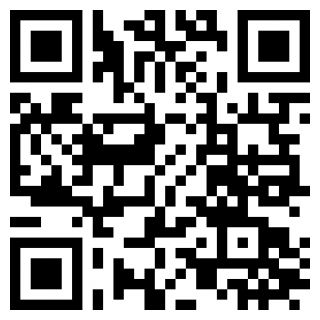
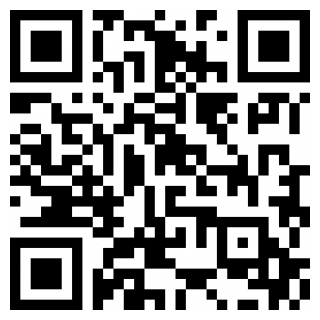
Telegram for client fixes

diff --git a/frontend/controllers/TelegramController.php b/frontend/controllers/TelegramController.php
@@ -19,7 +19,7 @@ use Yii;
  */
 class TelegramController extends \yii\rest\Controller
 {
-	protected static function findUser($chat_id) {
+	protected function findUser($chat_id) {
 		$employee = Employee::find()->where(["chat_id" => $chat_id])->one();
 		if ( $employee ) {
 			$user = $employee->user;
@@ -37,11 +37,11 @@ class TelegramController extends \yii\rest\Controller
 
 	protected static function checkPermission($telegram, $permission) {
 		if ( !Yii::$app->user->can($permission) ) {
-			$message = isset($telegram->input->message) ? $telegram->input->message : $telegram->input->callback_query;
-			$result = $telegram->sendMessage([
-				'chat_id' => $message->chat->id,
-				"text" => Yii::t("telegram", "You don`t have permissions for this action")
-			]);
+//			$message = isset($telegram->input->message) ? $telegram->input->message : $telegram->input->callback_query;
+//			$result = $telegram->sendMessage([
+//				'chat_id' => $message->chat->id,
+//				"text" => Yii::t("telegram", "You don`t have permissions for this action")
+//			]);
 			return false;
 		}
 		return true;
@@ -65,7 +65,6 @@ class TelegramController extends \yii\rest\Controller
 				"input_data" => $data,
 				"message" => 'user is not logged',
 			]);
-			return false;
 		}
 		Yii::$app->user->switchIdentity($user, 0);
 		$this->enableCsrfValidation = false;
@@ -299,12 +298,19 @@ class TelegramController extends \yii\rest\Controller
 		Command::run("/driver", [$this, "driver"]);
 
 		Command::run("/all_orders", [$this, "orders"]);
+		Command::run("/order", [$this, "view"]);
 //		Command::run("/status_store", [$this, "status_store"]);
 	}
 
 	public static function start($telegram, $args = null)
 	{
+		\Yii::error(\Yii::$app->user->isGuest);
 		if ( isset($telegram->input->message) ) {
+			if (\Yii::$app->user->isGuest) {
+				$client = Client::findOne(["phone" => array_keys($args)[0]]);
+				$client->chat_id = $telegram->input->message->chat->id;
+				$client->save();
+			}
 			$telegram->sendMessage([
 				'chat_id' => $telegram->input->message->chat->id,
 				"text" => "Welcome!",
@@ -335,16 +341,31 @@ class TelegramController extends \yii\rest\Controller
 			$keyboard = [];
 			foreach ($orders as $order) {
 				$keyboard[] = [
-					["text" => "Заказ #{$order->id} Стоимость: {$order->price}"]
+					["text" => "Заказ #{$order->id} Стоимость: {$order->totalPrice}", "callback_data" => "/order order_id={$order->id}"]
 				];
 			}
-			$telegram->sendMessage([
-				'chat_id' => $telegram->input->message->chat->id,
-				"text" => "Список заказов",
-				"reply_markup" => json_encode([
-					"inline_keyboard" => $keyboard
-				]),
-			]);
+			// \Yii::error($keyboard);
+			$chat_id = isset($telegram->input->message) ? $telegram->input->message->chat->id : $telegram->input->callback_query->from["id"];
+			if ( isset($telegram->input->message) ) {
+				$telegram->sendMessage([
+					'chat_id' => $chat_id,
+					"text" => "Список заказов",
+					"reply_markup" => json_encode([
+						"inline_keyboard" => $keyboard
+					]),
+				]);
+
+			} else {
+				\Yii::error($telegram->input->callback_query);
+				$telegram->editMessageText([
+					"chat_id" => $chat_id,
+					"message_id" => $telegram->input->callback_query->message['message_id'],
+					"text" => "Список заказов",
+					"reply_markup" => json_encode([
+						"inline_keyboard" => $keyboard
+					])
+				]);
+			}
 		} else {
 			$telegram->sendMessage([
 				'chat_id' => $telegram->input->message->chat->id,
@@ -355,21 +376,24 @@ class TelegramController extends \yii\rest\Controller
 
 	public static function view($telegram, $args = null)
 	{
-		$order = Order::findOne($args["order_id"]);
-		$telegram->editMessageText([
-			"message_id" => $telegram->input->callback_query->message["message_id"],
-			'chat_id' => $telegram->input->callback_query->message["chat"]["id"],
-			"text" => $order->generateTelegramText(),
-			"reply_markup" => json_encode([
-				"inline_keyboard" => [
-					[
-						["text" => "Повторить заказ", "callback_data" => "/copy order_id={$order->id}"],
-						["text" => "Изменить заказ", "callback_data" => "/update order_id={$order->id}"],
-						["text" => "Отмена", "callback_data" => "/all_orders"],
+		if (isset($args["order_id"])) {
+			$order = Order::findOne($args["order_id"]);
+			$telegram->editMessageText([
+				"message_id" => $telegram->input->callback_query->message["message_id"],
+				'chat_id' => $telegram->input->callback_query->message["chat"]["id"],
+				"text" => $order->generateTelegramText(),
+				"parse_mode" => "html",
+				"reply_markup" => json_encode([
+					"inline_keyboard" => [
+						[
+//							["text" => "Повторить заказ", "callback_data" => "/copy order_id={$order->id}"],
+//							["text" => "Изменить заказ", "callback_data" => "/update order_id={$order->id}"],
+							["text" => "Отмена", "callback_data" => "/all_orders"],
+						]
 					]
-				]
-			]),
-		]);
+				]),
+			]);
+		}
 	}
 
 	public static function inlineCheck($telegram, $args = null)

diff --git a/common/models/Order.php b/common/models/Order.php
@@ -42,6 +42,7 @@ use yii\db\ActiveRecord;
  * @property Location $location
  * @property int $delivery_type [int(11)]
  * @property TelegramMessage[] $messages
+ * @property int $totalPrice
  */
 class Order extends ActiveRecord
 {
@@ -268,6 +269,14 @@ class Order extends ActiveRecord
 		return $price;
 	}
 
+	public function getTotalPrice()
+	{
+		if ( isset($this->delivery_distance) )
+		return $this->price + (intval($this->delivery_distance) * Settings::getDeliveryCost());
+
+		return $this->price;
+	}
+
 	public function getCount($product_id)
 	{
 		$query = Yii::$app->db->createCommand("SELECT `product_count` FROM `order_product` WHERE order_id={$this->id} AND product_id={$product_id}")->queryOne();
@@ -384,6 +393,7 @@ class Order extends ActiveRecord
 		} else {
 			$result .= "<b>Адрес доставки</b>: Самовывоз\n";
 		}
+		$result .= "<b>Статус</b>: ".$this->getStatus()."\n";
 		$delivery_price = 0;
 		if ($this->delivery_distance !== null) {
 			$delivery_price = intval($this->delivery_distance) * Settings::getDeliveryCost();

diff --git a/backend/controllers/DefaultController.php b/backend/controllers/DefaultController.php
@@ -27,7 +27,7 @@ class DefaultController extends BaseController
 	{
 		$cars = $this->cars();
 		$client = Client::findOne(["user_id" => \Yii::$app->user->id]);
-		if ( $client->chat_id ) {
+		if ( empty($client->chat_id) ) {
 			$qrCode = (new QrCode("https://t.me/".\Yii::$app->telegram->botUsername."?start={$client->phone}"))
 				->setSize(300)
 				->setMargin(10);
